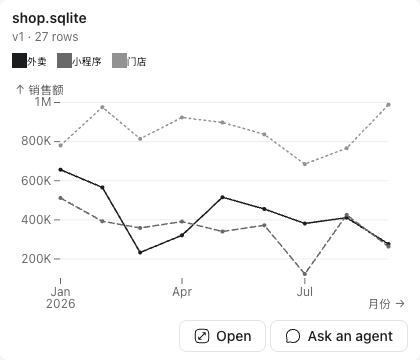
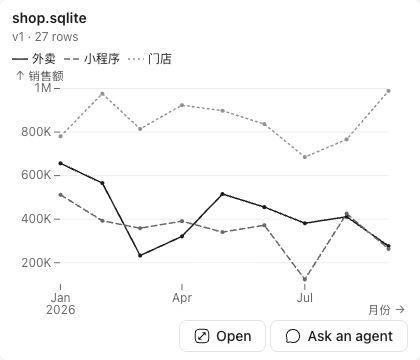
data-lens: a line chart's legend draws each series' line
Series keep the query's order for ink and dash alike, and the legend of
a line chart shows the same stroke and dash as its line. A truncated
result says so once: 'First 5,000 rows (truncated)'.

diff --git a/sources/data-lens/app/lib/view.js b/sources/data-lens/app/lib/view.js
@@ -82,6 +82,21 @@ function contrast(a, b) {
   return (l1 + 0.05) / (l2 + 0.05)
 }
 
+const DASHES = [null, '6 3', '2 3']
+
+/** A legend's line: 16 px of a series' stroke and dash. */
+function sample(stroke, dash) {
+  const svg = document.createElementNS('http://www.w3.org/2000/svg', 'svg')
+  svg.setAttribute('width', '16')
+  svg.setAttribute('height', '8')
+  svg.setAttribute('aria-hidden', 'true')
+  const line = document.createElementNS('http://www.w3.org/2000/svg', 'line')
+  for (const [k, v] of Object.entries({ x1: 0, y1: 4, x2: 16, y2: 4, stroke, 'stroke-width': 1.5 })) line.setAttribute(k, v)
+  if (dash) line.setAttribute('stroke-dasharray', dash)
+  svg.append(line)
+  return svg
+}
+
 /** Series beyond these three inks are not told apart: the view says so instead of drawing them alike. */
 const SERIES = 3
 
@@ -181,13 +196,20 @@ function chart(view, result, { width, height }, ink) {
       Plot.text(data.filter(onBg), { x, y, text: label, fill: ink.bg }),
       Plot.text(data.filter((d) => !onBg(d)), { x, y, text: label, fill: ink.fg })]
   }
+  let legend = null
   if (color && view.kind !== 'heatmap') {
-    options.color = { legend: true, range: [ink.fg, ink.muted, ink.passive] }
-    // Lines told apart by dash as well as ink: three inks are close in a light theme.
-    if (view.kind === 'line') marks[0] = [...new Set(data.map((d) => d[color]))].map((series, i) =>
-      Plot.lineY(data.filter((d) => d[color] === series), { x, y, stroke: color, strokeDasharray: [null, '6 3', '2 3'][i], ...tip }))
+    // Series in the query's order, each with its own ink (and, for lines, its own dash): the same order everywhere.
+    const series = [...new Set(data.map((d) => d[color]))]
+    const inksOf = [ink.fg, ink.muted, ink.passive]
+    options.color = { domain: series, range: inksOf, legend: view.kind !== 'line' }
+    if (view.kind === 'line') {
+      // Lines told apart by dash as well as ink (three inks are close), and a legend that draws the same line.
+      marks[0] = series.map((s, i) => Plot.lineY(data.filter((d) => d[color] === s), { x, y, stroke: color, strokeDasharray: DASHES[i], ...tip }))
+      legend = el('div', { class: 'legend' }, ...series.map((s, i) => el('span', {}, sample(inksOf[i], DASHES[i]), show(s))))
+    }
   }
-  const plot = Plot.plot({ ...base, ...options, marks: marks.flat().filter(Boolean) })
+  const drawn = Plot.plot({ ...base, ...options, marks: marks.flat().filter(Boolean) })
+  const plot = legend ? el('div', {}, legend, drawn) : drawn
   // Grid lines at the border's ink: Plot draws them in currentColor at a set opacity.
   for (const line of plot.querySelectorAll('g[aria-label$="grid"]')) line.setAttribute('stroke', ink.border), line.setAttribute('stroke-opacity', '1')
   return plot

diff --git a/sources/data-lens/app/lib/text.js b/sources/data-lens/app/lib/text.js
@@ -1,7 +1,7 @@
 // The App's own words, in the person's language (zh or en): everything else on the page is their data.
 const WORDS = {
   zh: {
-    open: '展开', ask: '问 agent', rows: (n) => `${n} 行`, truncated: (n) => `只取前 ${n} 行`, newer: (v) => `文件已有 v${v}`,
+    open: '展开', ask: '问 agent', rows: (n) => `${n} 行`, firstRows: (n) => `前 ${n} 行`, cut: '（已截断）', newer: (v) => `文件已有 v${v}`,
     loading: '正在读取…', querying: '正在计算…', pick: '选一个数据文件', none: '这个群还没有 .csv / .xlsx / .sqlite 文件',
     noneHint: '把数据文件发到群里，再让 agent 发一张数据卡片', run: '运行', table: '表', view: '视图', sql: 'SQL',
     askDraft: (name, sql) => `关于 ${name}，查询：\n${sql}\n`, cardDraft: (name, data) => `用 data-lens 把这个视图发成卡片（${name}）：\n${data}`,
@@ -9,7 +9,7 @@ const WORDS = {
     manySeriesHint: '分不清这么多条，换成表格看，或者在查询里只留几个', tables: '表', kind: '类型', gone: '这个文件不在了，或者你看不到它', badCard: '这张卡片的数据有问题', failed: '出错了',
   },
   en: {
-    open: 'Open', ask: 'Ask an agent', rows: (n) => `${n} rows`, truncated: (n) => `first ${n} rows only`, newer: (v) => `file now at v${v}`,
+    open: 'Open', ask: 'Ask an agent', rows: (n) => `${n} rows`, firstRows: (n) => `First ${n} rows`, cut: ' (truncated)', newer: (v) => `file now at v${v}`,
     loading: 'Reading…', querying: 'Calculating…', pick: 'Pick a data file', none: 'No .csv / .xlsx / .sqlite files in this chat yet',
     noneHint: 'Send a data file to the chat, then ask an agent for a data card', run: 'Run', table: 'Table', view: 'View', sql: 'SQL',
     askDraft: (name, sql) => `About ${name}, query:\n${sql}\n`, cardDraft: (name, data) => `Send this view as a data-lens card (${name}):\n${data}`,

diff --git a/sources/data-lens/app/card.js b/sources/data-lens/app/card.js
@@ -32,7 +32,7 @@ async function showCard(ctx) {
   lens.close()
   const view = checkView(card.view, result.columns)
 
-  const meta = [view.title ? entry.name : null, `v${version}`, t('rows', show(result.rows.length))].filter(Boolean)
+  const meta = [view.title ? entry.name : null, `v${version}`, t(result.truncated ? 'firstRows' : 'rows', show(result.rows.length))].filter(Boolean)
   
   const stage = el('div', { class: 'stage' })
   const newer = el('small', { class: 'muted' })
@@ -50,7 +50,7 @@ async function showCard(ctx) {
   )
   root.replaceChildren(el('article', { class: 'card-view', 'aria-label': view.title ?? entry.name },
     el('header', {}, el('strong', { text: view.title ?? entry.name }), el('small', {}, meta.join(' · '),
-      result.truncated ? el('span', { class: 'truncated', text: ` · ${t('truncated', show(result.rows.length))}` }) : null)),
+      result.truncated ? el('span', { class: 'truncated', text: t('cut') }) : null)),
     stage, actions))
   const paint = () => draw(stage, view, result, { width: stage.clientWidth, height: stage.clientHeight })
   paint()

diff --git a/sources/data-lens/app/style.css b/sources/data-lens/app/style.css
@@ -39,6 +39,11 @@ th[aria-sort="none"] button.sort gugu-icon { visibility: hidden; }
 .kpi strong { font-size: var(--em-font-page); line-height: var(--em-lh-page); font-variant-numeric: tabular-nums; }
 
 .stage svg { display: block; max-width: 100%; margin: 0 auto; }
+/* Legends: Plot's swatches for bars and dots, and the App's own lines for a line chart; a gap after each mark. */
+.stage .legend { display: flex; flex-wrap: wrap; gap: var(--em-spacing-sm); font-size: var(--em-font-caption); line-height: var(--em-lh-caption); }
+.stage .legend span { display: inline-flex; align-items: center; gap: var(--em-spacing-xs); }
+.stage .legend svg { display: inline; margin: 0; }
+.stage [class$="-swatch"] > svg { margin-right: var(--em-spacing-xs); }
 .explore textarea { width: 100%; box-sizing: border-box; }
 .explore .run { justify-content: flex-end; }
 .explore .fields { display: grid; grid-template-columns: repeat(5, minmax(0, 1fr)); gap: var(--em-spacing-sm); }

diff --git a/sources/data-lens/app/explore.js b/sources/data-lens/app/explore.js
@@ -26,7 +26,7 @@ const schema = el('details', {}, el('summary', { text: t('tables') }))
 /** The status line: what the last step said; a failure as an alert, a truncated result in the warning ink, not one. */
 function say(text, role = 'status', warning = null) {
   status.setAttribute('role', role)
-  status.replaceChildren(text, warning ? el('span', { class: 'truncated', text: ` · ${warning}` }) : '')
+  status.replaceChildren(text, warning ? el('span', { class: 'truncated', text: warning }) : '')
 }
 
 function currentView() {
@@ -59,7 +59,7 @@ async function run() {
   try {
     result = await lens.query(sqlBox.value)
     fillFields(result.columns)
-    say(t('rows', show(result.rows.length)), 'status', result.truncated ? t('truncated', show(result.rows.length)) : null)
+    say(t(result.truncated ? 'firstRows' : 'rows', show(result.rows.length)), 'status', result.truncated ? t('cut') : null)
     repaint()
   } catch (error) {
     result = null
